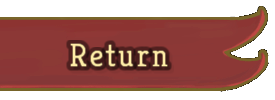
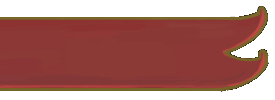
Add draw pile

Changed region(s): [[0.2327, 0.39, 0.64, 0.72]]

diff --git a/slay-the-relics-extension/src/components/Deck/Deck.tsx b/slay-the-relics-extension/src/components/Deck/Deck.tsx
@@ -9,6 +9,9 @@ import {
 } from "react";
 import { CardsLoc } from "../tmp";
 import { KeywordTips, PowerTipBlock } from "../Tip/Tip";
+import { ReturnButton } from "../Buttons/Buttons";
+
+type DeckType = "deck" | "draw" | "discard" | "exhaust";
 
 function formatForSlaytabase(val: string): string {
   return val
@@ -122,9 +125,8 @@ export function CardView(props: {
 
   return (
     <div
-      id={"card_view"}
       className={
-        "absolute justify-center items-center w-screen h-screen " +
+        "absolute justify-center items-center w-screen h-screen card-view " +
         props.display
       }
     >
@@ -205,12 +207,33 @@ export function DeckButton(props: {
   setDeckViewMode: Dispatch<SetStateAction<string>>;
   setCardViewMode: Dispatch<SetStateAction<string>>;
   resetCardView: () => void;
+  what: DeckType;
 }) {
+  const locationStyle: CSSProperties = {
+    display: props.cardCount ? "block" : "none",
+  };
+  switch (props.what) {
+    case "deck":
+      locationStyle.top = "0%";
+      locationStyle.right = "4.322%";
+      break;
+    case "draw":
+      locationStyle.top = "89%";
+      locationStyle.left = "2.322%";
+      break;
+    case "discard":
+      locationStyle.top = "89%";
+      locationStyle.left = "94.322%";
+      break;
+    case "exhaust":
+      locationStyle.top = "78.5%";
+      locationStyle.left = "94.56%";
+      break;
+  }
+
   return (
     <button
-      style={{
-        display: props.cardCount ? "block" : "none",
-      }}
+      style={locationStyle}
       className={"button-border"}
       id={"deck_button"}
       onClick={() => {
@@ -226,7 +249,11 @@ export function DeckButton(props: {
   );
 }
 
-export function DeckView(props: { cards: string[]; character: string }) {
+export function DeckView(props: {
+  cards: string[];
+  character: string;
+  what: DeckType;
+}) {
   const [deckViewMode, setDeckViewMode] = useState("hidden");
   const [cardViewMode, setCardViewMode] = useState("hidden");
   const [cardIndex, setCardIndex] = useState(0);
@@ -282,9 +309,35 @@ export function DeckView(props: { cards: string[]; character: string }) {
     return () => document.removeEventListener("keydown", handleKeyDown);
   }, [handleKeyDown]);
 
+  let closeText = "Close Deck";
+  switch (props.what) {
+    case "deck":
+      closeText = "Close Deck";
+      break;
+    case "draw":
+      closeText = "Close Draw Pile";
+      break;
+    case "discard":
+      closeText = "Close Discard Pile";
+      break;
+    case "exhaust":
+      closeText = "Close Exhaust Pile";
+      break;
+  }
   return (
     <div>
+      {deckViewMode === "flex" && (
+        <ReturnButton
+          text={closeText}
+          onClick={() => {
+            setDeckViewMode("hidden");
+            setCardViewMode("hidden");
+            resetCardView();
+          }}
+        />
+      )}
       <DeckButton
+        what={props.what}
         cardCount={props.cards.length}
         deckViewMode={deckViewMode}
         setDeckViewMode={setDeckViewMode}

diff --git a/slay-the-relics-extension/src/components/App/App.tsx b/slay-the-relics-extension/src/components/App/App.tsx
@@ -46,6 +46,9 @@ interface AppState extends Record<string, unknown> {
   relics: string[];
   baseRelicStats: Record<number, (string | number)[]>;
   deck: string[];
+  drawPile: string[];
+  discardPile: string[];
+  exhaustPile: string[];
   potions: string[];
   additionalTips: { tips: Tip[]; hitbox: NumHitBox }[];
   mapNodes: MapNode[][];
@@ -73,6 +76,9 @@ export default class App extends Component<never, AppState> {
       potions: [],
       mapNodes: [],
       mapPath: [],
+      drawPile: [],
+      discardPile: [],
+      exhaustPile: [],
       baseRelicStats: {},
     };
   }
@@ -197,7 +203,26 @@ export default class App extends Component<never, AppState> {
           relics={this.state.relics}
           character={this.state.character}
         />
-        <DeckView cards={this.state.deck} character={this.state.character} />
+        <DeckView
+          cards={this.state.deck}
+          character={this.state.character}
+          what={"deck"}
+        />
+        <DeckView
+          cards={this.state.drawPile}
+          character={this.state.character}
+          what={"draw"}
+        />
+        <DeckView
+          cards={this.state.discardPile}
+          character={this.state.character}
+          what={"discard"}
+        />
+        <DeckView
+          cards={this.state.exhaustPile}
+          character={this.state.character}
+          what={"exhaust"}
+        />
         <div>
           {this.state.additionalTips.map((t, i) => (
             <PowerTipBlock

diff --git a/slay-the-relics-extension/src/components/App/App.css b/slay-the-relics-extension/src/components/App/App.css
@@ -117,14 +117,31 @@ div.powertip-header {
   position: absolute;
   width: 3.438%;
   height: 8%;
-  top: 0%;
-  right: 4.322%; /*.053*/
   z-index: 9;
   background-size: contain;
   background-position-y: -0.046rem;
   /* border: 1px solid rgba(255,255,255,0.0); */
   box-sizing: border-box;
   background-repeat: no-repeat;
+}
+
+.return_btn {
+  position: absolute;
+  left: 0%;
+  top: 76.35%;
+  width: 14.323%;
+  height: 9.259%;
+  background-size: cover;
+  background-image: url("../../img/ui/btn_return_base.png");
+  background-repeat: no-repeat;
+  z-index: 30;
+  text-align: center;
+  font-size: 1.5rem;
+  font-weight: bold;
+}
+
+.return_btn:hover {
+  background-image: url("../../img/ui/btn_return_hover.png");
 }
 
 #map_button {
@@ -147,7 +164,7 @@ div.powertip-header {
   background-size: cover;
 }
 
-#card_view {
+.card-view {
   z-index: 20;
   background-color: rgba(0, 0, 0, 0.9);
 }

diff --git a/slay-the-relics-extension/src/components/Buttons/Buttons.tsx b/slay-the-relics-extension/src/components/Buttons/Buttons.tsx
@@ -1,0 +1,7 @@
+export function ReturnButton(props: { onClick: () => void; text: string }) {
+  return (
+    <button className={"return_btn text-yellow"} onClick={props.onClick}>
+      {props.text}
+    </button>
+  );
+}

diff --git a/backend/slaytherelics/game_state.go b/backend/slaytherelics/game_state.go
@@ -170,6 +170,9 @@ func (gs *GameStateManager) broadcastUpdate(ctx context.Context,
 		AdditionalTips: nil,
 		MapNodes:       nil,
 		MapPath:        nil,
+		DiscardPile:    nil,
+		DrawPile:       nil,
+		ExhaustPile:    nil,
 	}
 	if prev.Character != update.Character {
 		updateValue.Character = &update.Character
@@ -182,6 +185,15 @@ func (gs *GameStateManager) broadcastUpdate(ctx context.Context,
 	}
 	if !reflect.DeepEqual(prev.Deck, update.Deck) {
 		updateValue.Deck = &update.Deck
+	}
+	if !reflect.DeepEqual(prev.DrawPile, update.DrawPile) {
+		updateValue.DrawPile = &update.DrawPile
+	}
+	if !reflect.DeepEqual(prev.DiscardPile, update.DiscardPile) {
+		updateValue.DiscardPile = &update.DiscardPile
+	}
+	if !reflect.DeepEqual(prev.ExhaustPile, update.ExhaustPile) {
+		updateValue.ExhaustPile = &update.ExhaustPile
 	}
 	if !reflect.DeepEqual(prev.Potions, update.Potions) {
 		updateValue.Potions = &update.Potions
